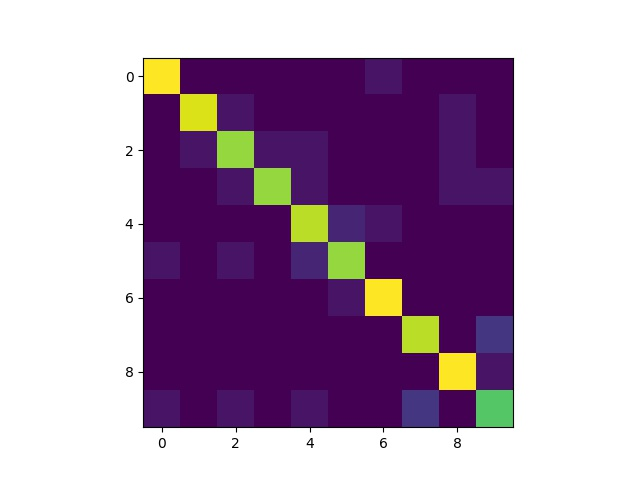
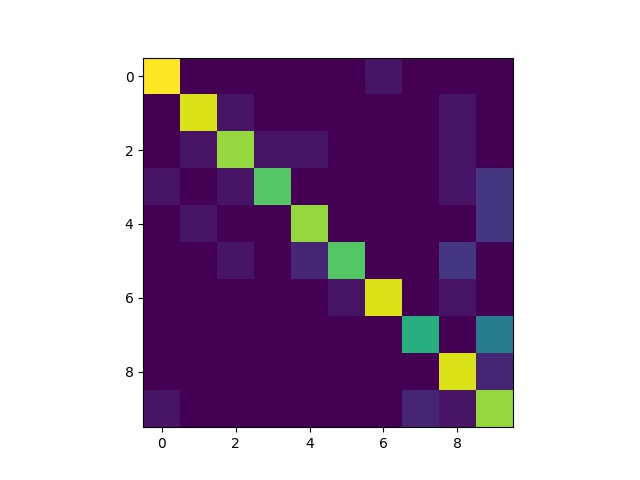
Correct confusion matrices

Changed region(s): [[0.375, 0.3438, 0.625, 0.6562], [0.625, 0.6562, 0.8125, 0.9062], [0.6875, 0.3438, 0.8125, 0.5938]]

diff --git a/code.py b/code.py
@@ -20,10 +20,10 @@ def configureInitialWeightMatrix():
 
 def perceptron():
     images = loadTrainingSet()
-    weights = configureInitialWeightMatrix()
-    learning_rates = np.array([1, 0.1, 0.01, 0.001, 0.0001, 0.00001, 0.000001, 0.0000001, 0.00000001, 0.000000001])
+    learning_rates = np.array([1.0, 0.1, 0.01, 0.001, 0.0001, 0.00001, 0.000001, 0.0000001, 0.00000001, 0.000000001])
 
     for n in learning_rates:
+        weights = configureInitialWeightMatrix()
         confusionMatrix = np.zeros((10, 10))
         for c in range(10):
             print("Training Class " + str(c))
@@ -35,8 +35,10 @@ def perceptron():
             for epoch in range(500):
                 for img in range(0, 2400):
                     currentImage = images[img]
-                    if ((1 if (np.dot(weights[c], currentImage) >= 0) else -1) != target[img]):
-                        weights[c] = weights[c] + n * currentImage * target[img]
+                    currentTarget = target[img]
+                    calculatedTarget = 1 if (np.dot(weights[c], currentImage) >= 0) else -1
+                    if (calculatedTarget != currentTarget):
+                        weights[c] = weights[c] + (n * currentImage * currentTarget)
 
         for i in range(1, 201):
             testImg = plt.imread('./Test/' + str(i) + '.jpg')
